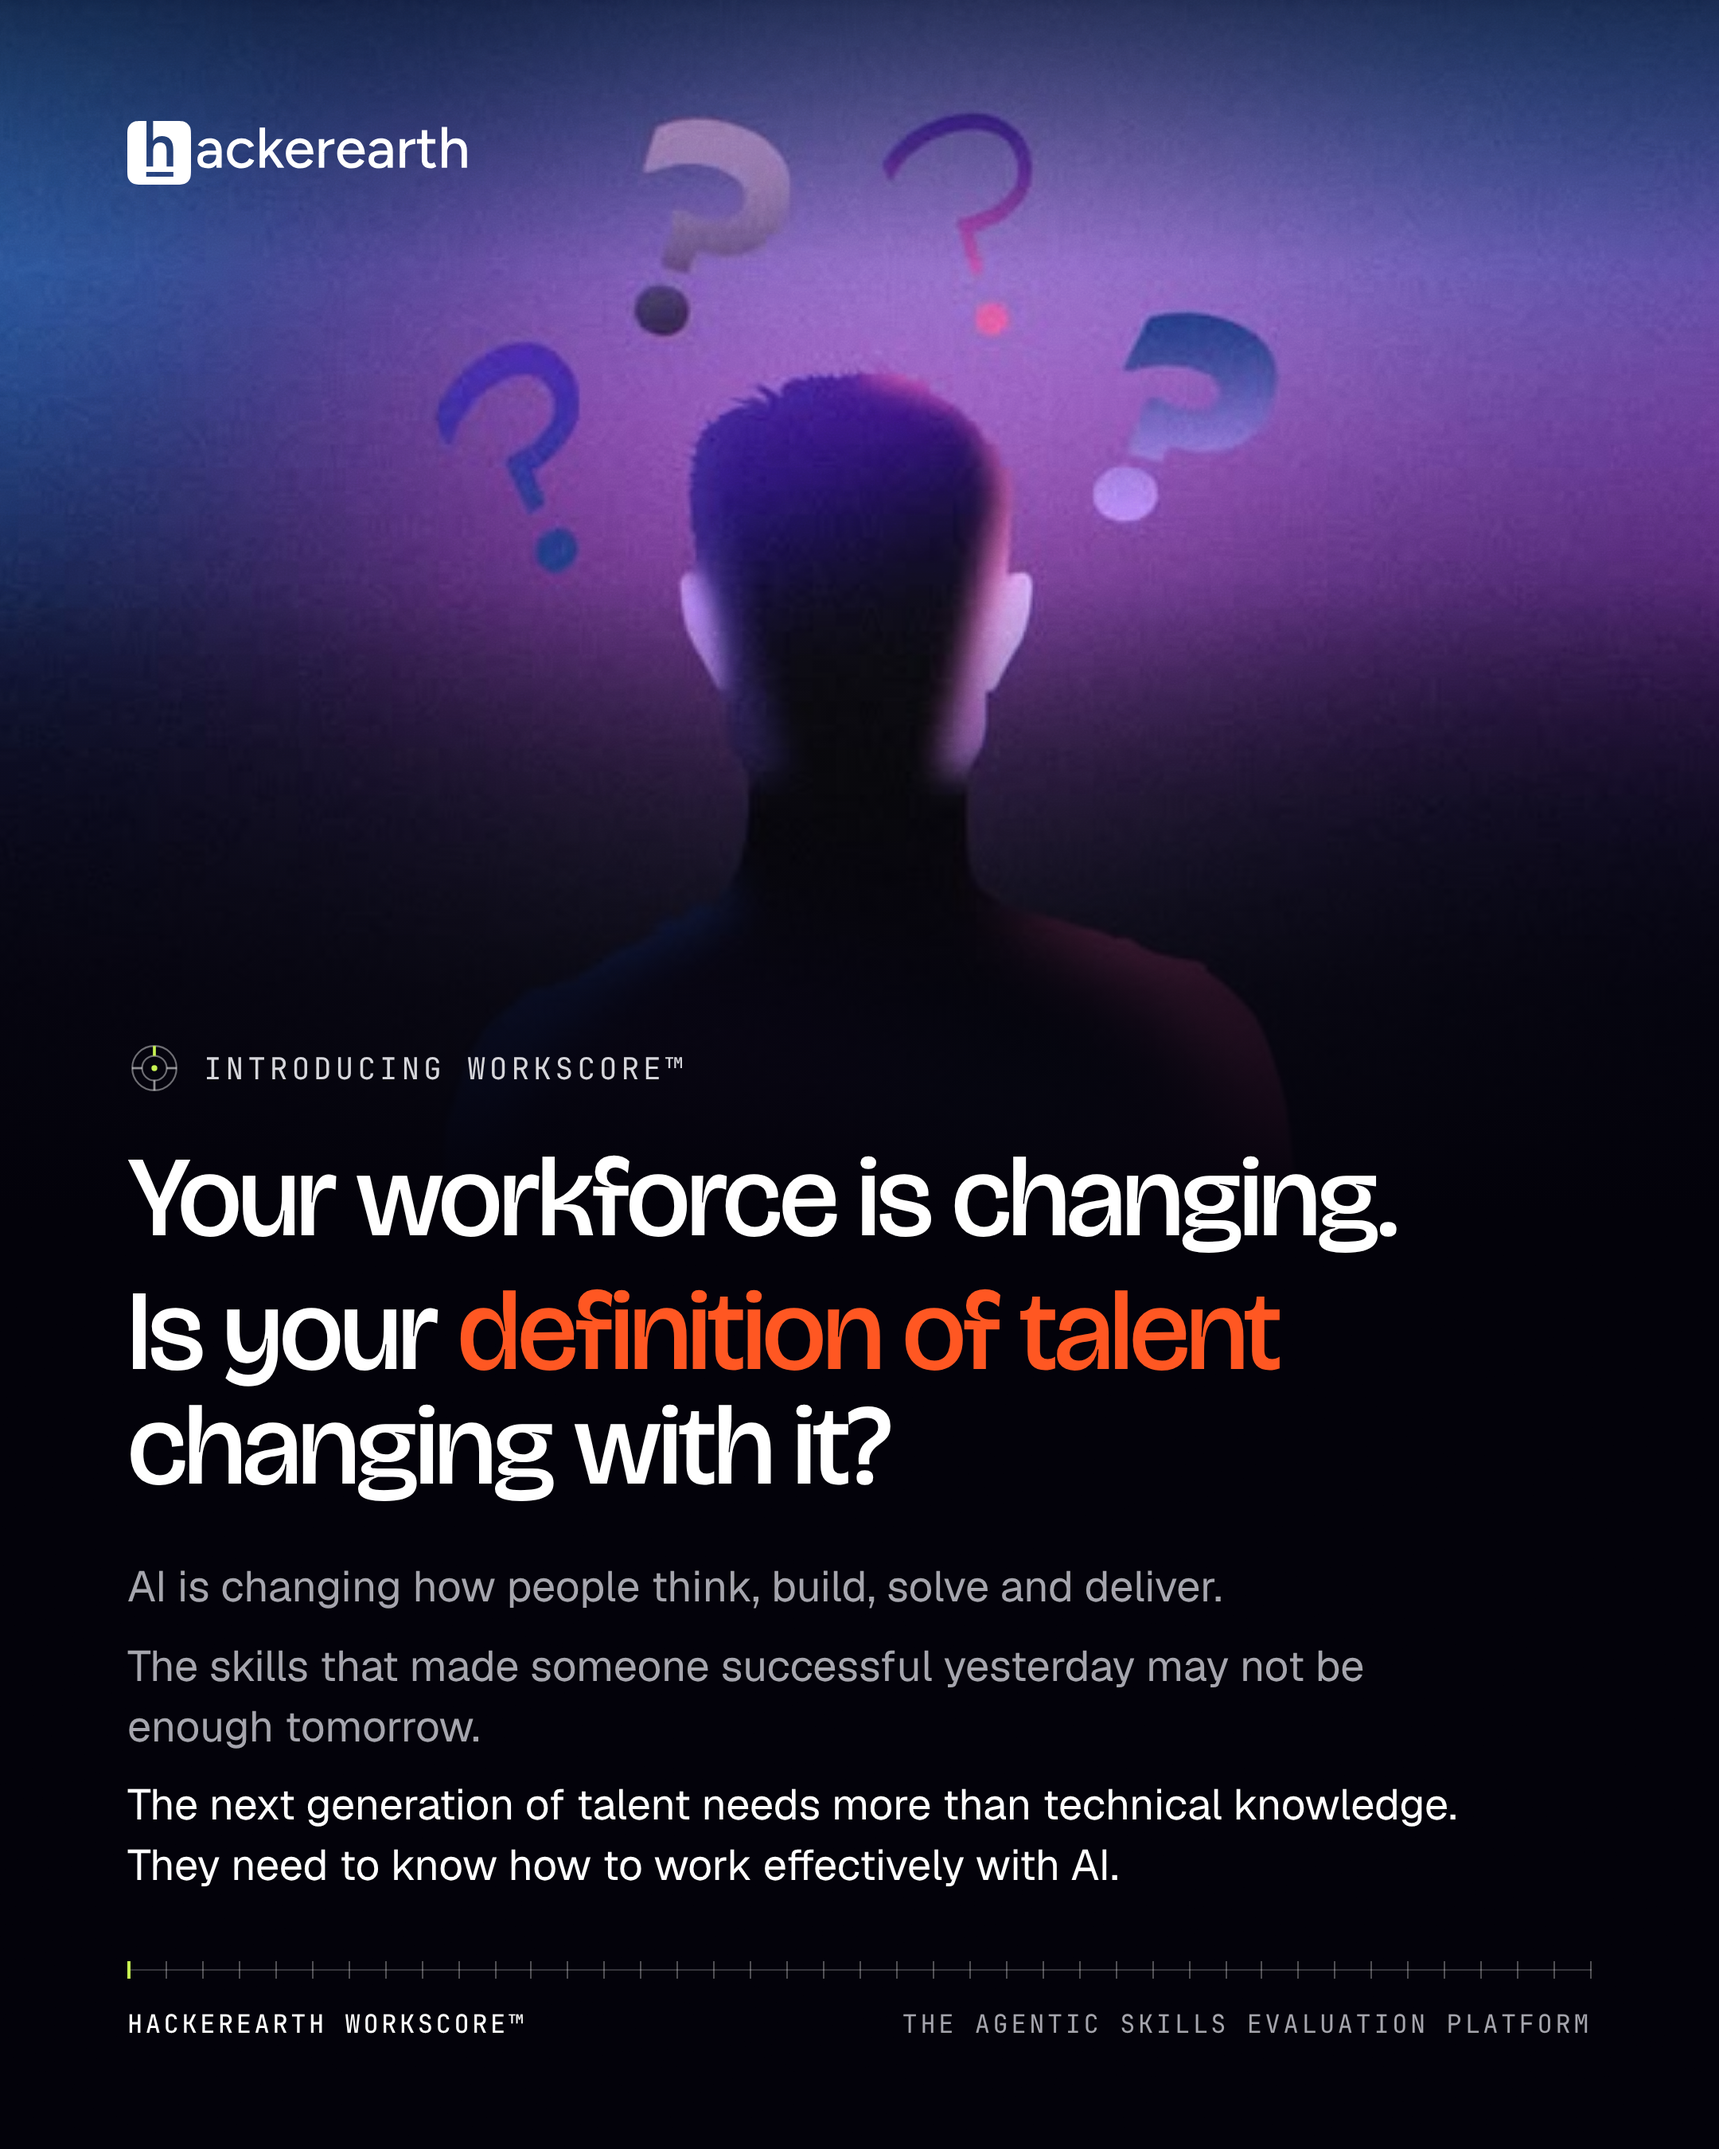
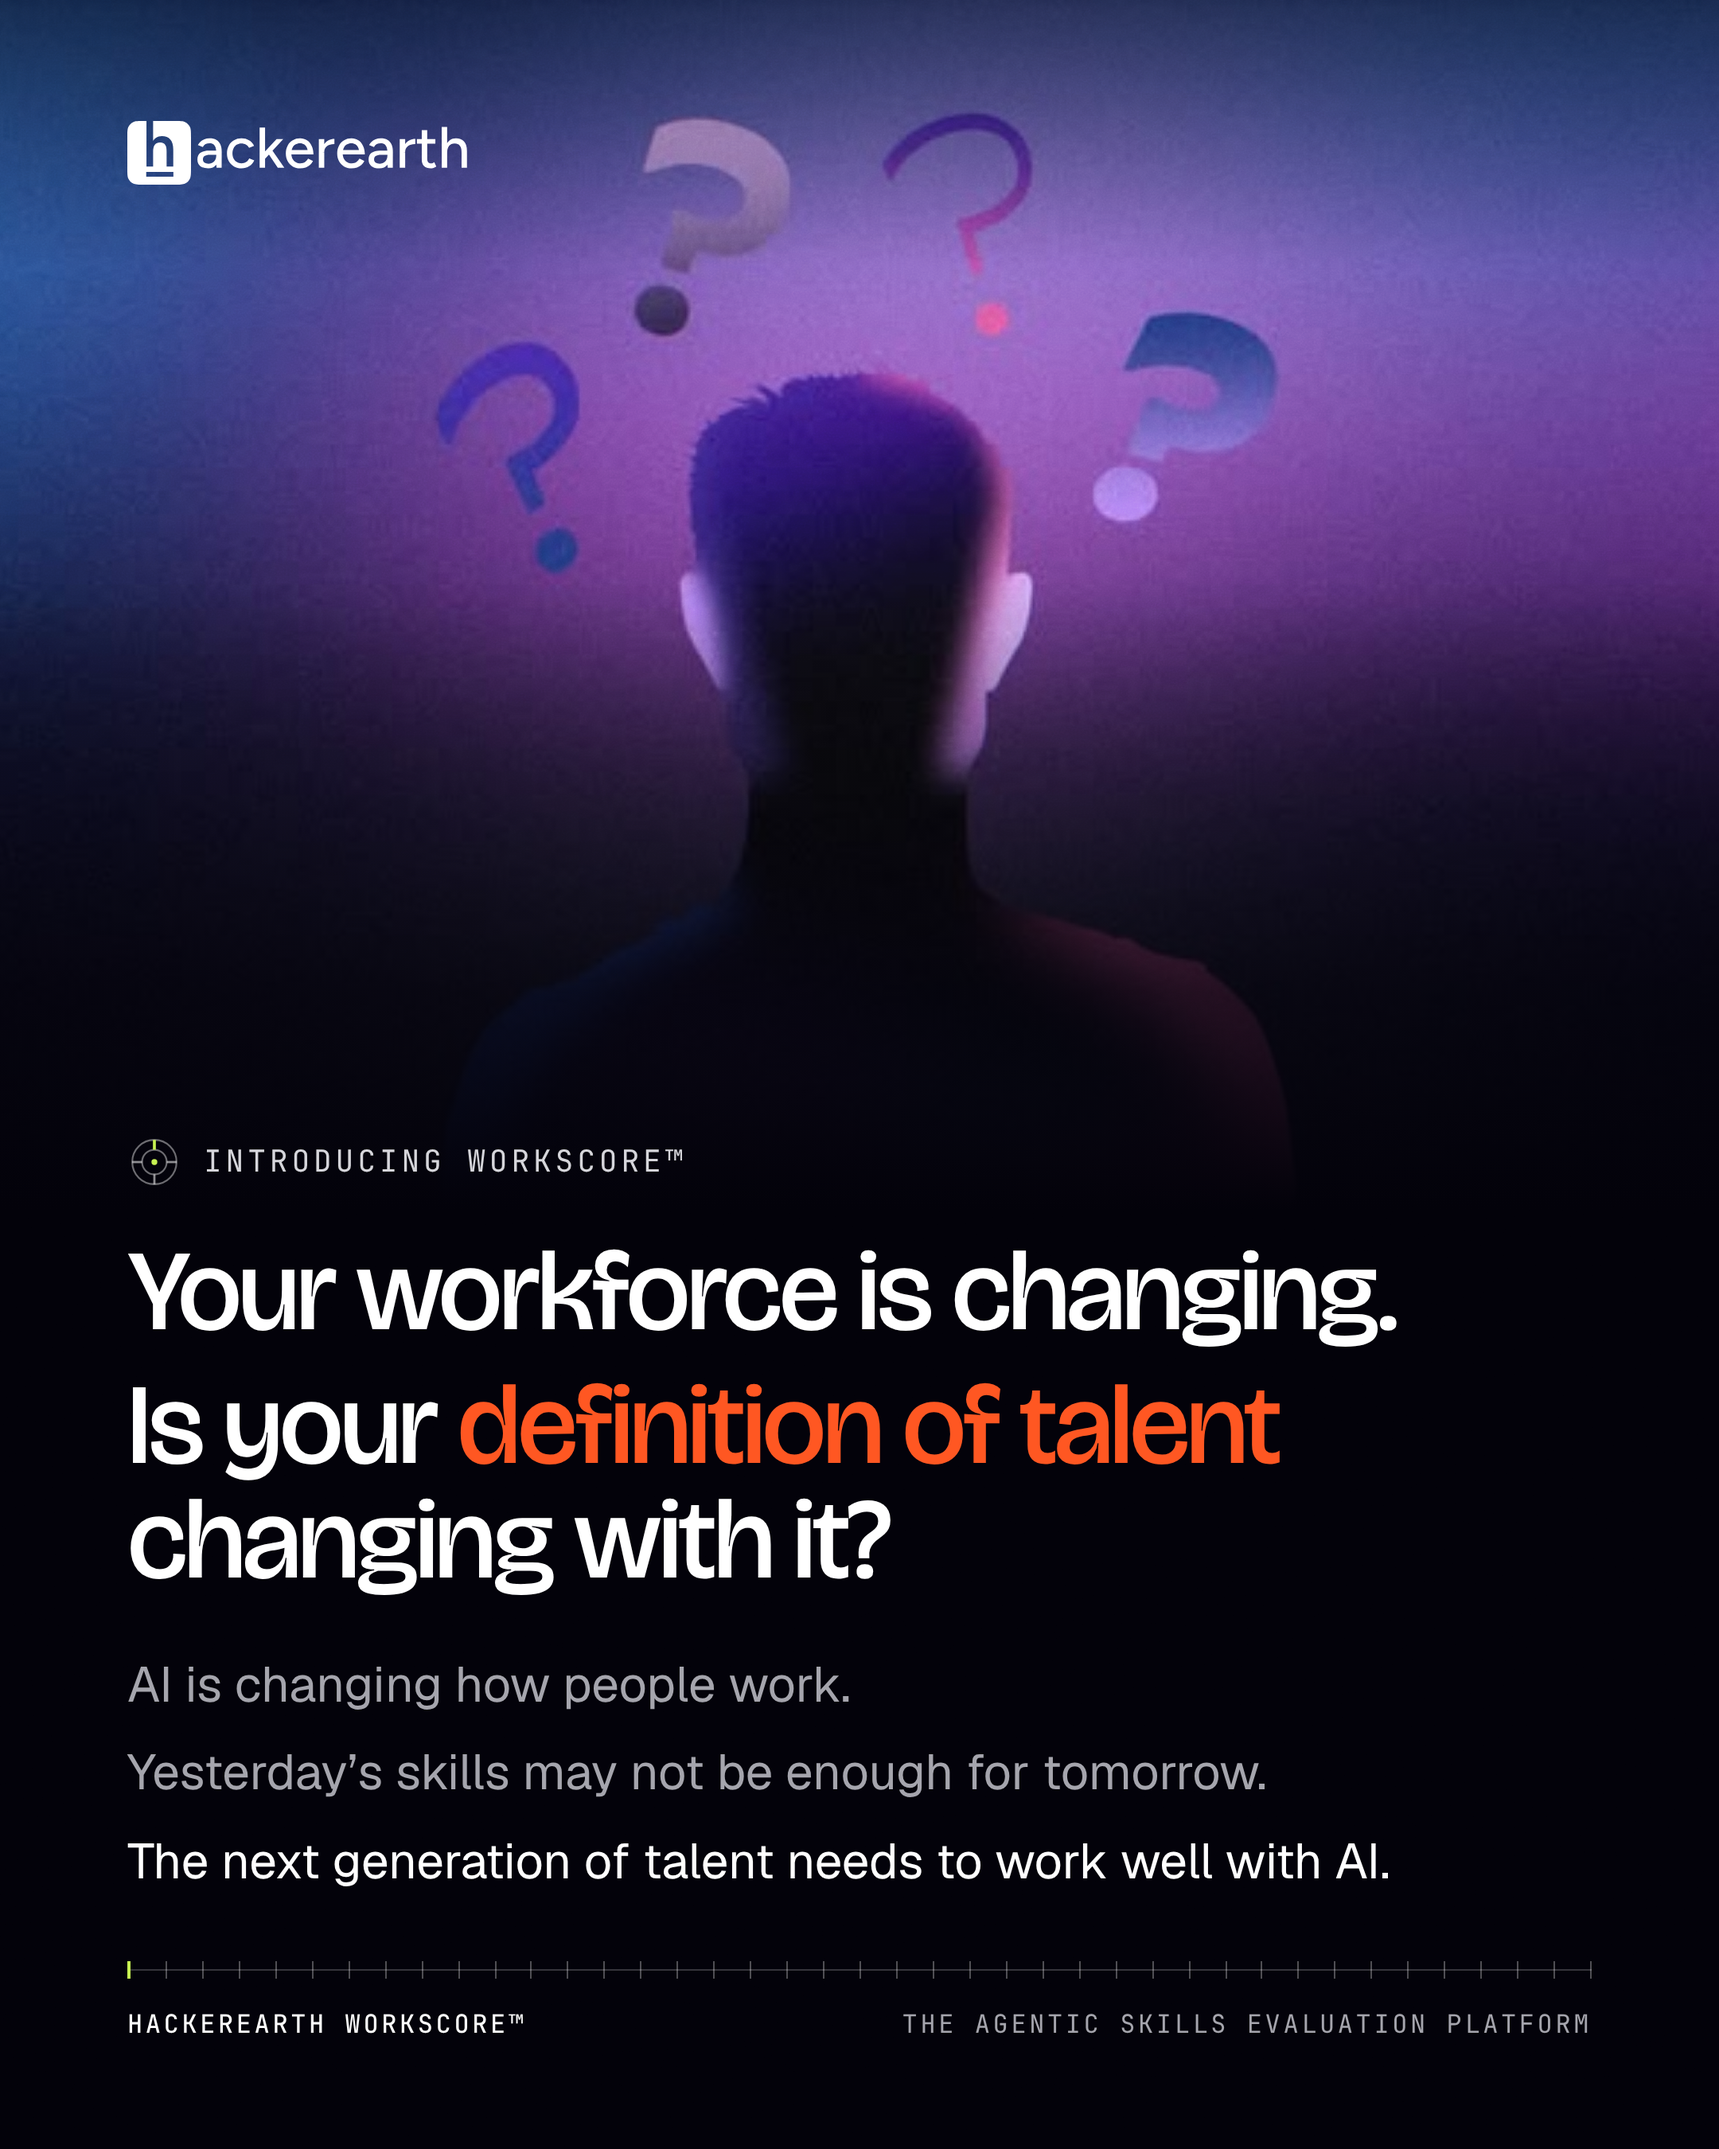
Simplify supporting text on LinkedIn variations
Claude-Session: https://claude.ai/code/session_011WvSfaA7jnuHnBVRefteJj

Changed region(s): [[0.062, 0.5289, 0.8375, 0.8711]]

diff --git a/workscore-linkedin-post/variations.html b/workscore-linkedin-post/variations.html
@@ -34,7 +34,7 @@ h1 { font-family: var(--display); font-weight: 500; font-size: 72px; line-height
 h1.md { font-size: 78px; letter-spacing: -2.1px; }
 h1 span { display: block; }
 h1 span + span { margin-top: 12px; }
-.support { margin-top: 34px; max-width: 840px; font-size: 27px; line-height: 1.4; color: var(--muted); }
+.support { margin-top: 34px; max-width: 840px; font-size: 31px; line-height: 1.4; color: var(--muted); }
 .support p + p { margin-top: 12px; }
 .support p.key { color: #fff; }
 h1 em { font-style: normal; color: var(--cta); }
@@ -79,27 +79,27 @@ h1 em { font-style: normal; color: var(--cta); }
 <section class="slide" data-n="1" data-bg="bg/bg-2.jpeg" data-pos="50% 0%" data-eyebrow="Introducing WorkScore&trade;">
   <h1><span>Your workforce is&nbsp;changing.</span><span>Is your <em>definition of&nbsp;talent</em> changing with&nbsp;it?</span></h1>
   <div class="support">
-    <p>AI is changing how people think, build, solve and deliver.</p>
-    <p>The skills that made someone successful yesterday may not be enough tomorrow.</p>
-    <p class="key">The next generation of talent needs more than technical knowledge. They need to know how to work effectively with&nbsp;AI.</p>
+    <p>AI is changing how people work.</p>
+    <p>Yesterday&rsquo;s skills may not be enough for tomorrow.</p>
+    <p class="key">The next generation of talent needs to work well with&nbsp;AI.</p>
   </div>
 </section>
 
 <section class="slide" data-n="2" data-bg="bg/bg-1.jpeg" data-pos="50% 100%" data-eyebrow="Introducing WorkScore&trade;">
   <h1><span>Your workforce is&nbsp;changing.</span><span>Is your <em>definition of&nbsp;talent</em> changing with&nbsp;it?</span></h1>
   <div class="support">
-    <p>AI is changing how people think, build, solve and deliver.</p>
-    <p>The skills that made someone successful yesterday may not be enough tomorrow.</p>
-    <p class="key">The next generation of talent needs more than technical knowledge. They need to know how to work effectively with&nbsp;AI.</p>
+    <p>AI is changing how people work.</p>
+    <p>Yesterday&rsquo;s skills may not be enough for tomorrow.</p>
+    <p class="key">The next generation of talent needs to work well with&nbsp;AI.</p>
   </div>
 </section>
 
 <section class="slide" data-n="3" data-bg="bg/bg-3.jpeg" data-pos="50% 0%" data-eyebrow="Introducing WorkScore&trade;">
   <h1><span>Your workforce is&nbsp;changing.</span><span>Is your <em>definition of&nbsp;talent</em> changing with&nbsp;it?</span></h1>
   <div class="support">
-    <p>AI is changing how people think, build, solve and deliver.</p>
-    <p>The skills that made someone successful yesterday may not be enough tomorrow.</p>
-    <p class="key">The next generation of talent needs more than technical knowledge. They need to know how to work effectively with&nbsp;AI.</p>
+    <p>AI is changing how people work.</p>
+    <p>Yesterday&rsquo;s skills may not be enough for tomorrow.</p>
+    <p class="key">The next generation of talent needs to work well with&nbsp;AI.</p>
   </div>
 </section>
 
